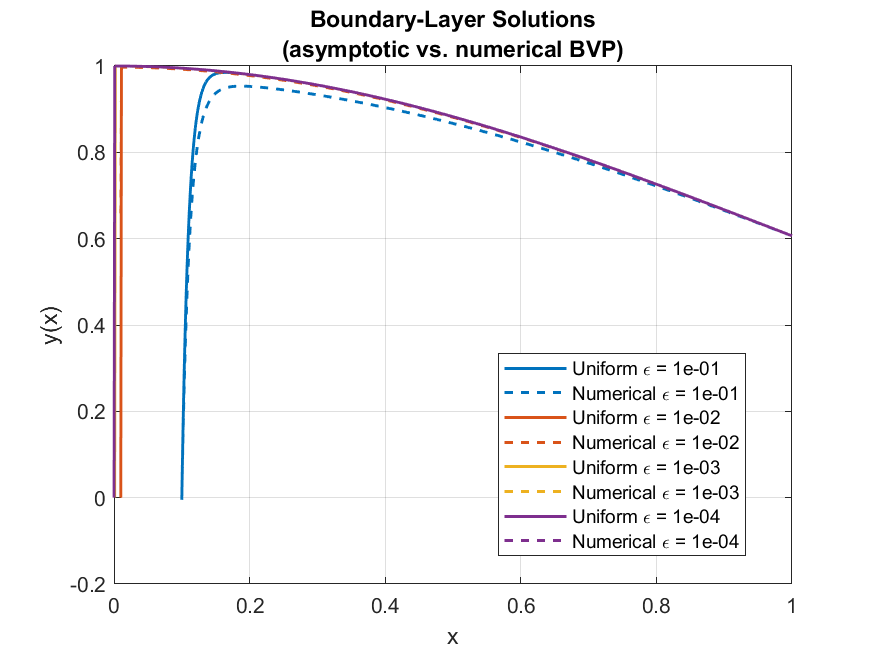
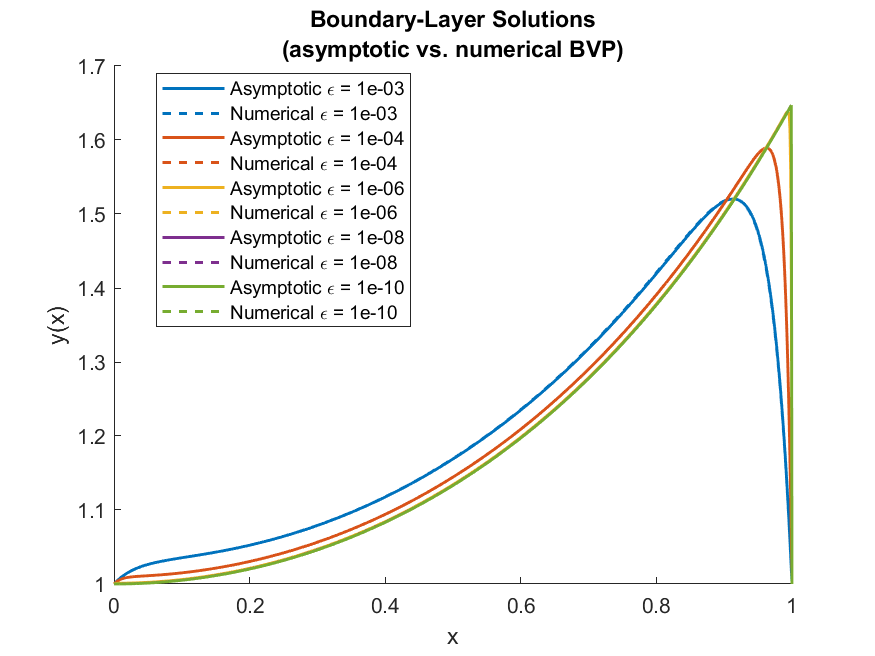
Code optimization

diff --git a/uniform_vs_numerical_bvp.m b/uniform_vs_numerical_bvp.m
@@ -1,113 +1,117 @@
-function compare_uniform_vs_numerical
-%COMPARE_UNIFORM_VS_NUMERICAL  Asymptotic solution vs.
-%                              direct numerical BVP solution.
+function compare_asymptotic_vs_numerical
+%COMPARE_ASYMPTOTIC_VS_NUMERICAL_  Convergence test for a matched solution.
 %
-%   PROBLEM
+%   PURPOSE
 %   -------
-%   We study the singularly-perturbed boundary-layer ODE
+%   Validate a **matched asymptotic approximation** y_uniform(x; ε) obtained
+%   via boundary‐layer theory by showing that its L₁-distance to the direct
+%   numerical solution of the BVP decays algebraically as ε → 0.
 %
-%       ε y''(x) + (1/x) y'(x) + y(x) = 0,  x ∈ [ε, 1],
-%       y(ε) = 0, y(1) = exp(−1/2).
-%
-%   A composite uniform approximation y_uniform(x) is obtained via
-%   Asymptotic expansions (outer + inner layer, then matched).
-%   This script compares that analytic approximation with the numerical
-%   solution produced by `bvp4c`.
-%
-%   WORKFLOW
-%   --------
-%   • For every value in EPSILON_VEC
-%       1. Evaluate the composite uniform approximation.
-%       2. Solve the BVP numerically with first-order reduction + `bvp4c`.
-%       3. Compute the L₁-error on [ε, 1].
-%       4. Plot both curves on the same axes.
-%   • Fit the convergence rate log(L₁) ≈ C ε^p and show it on a log–log
-%     plot.
-%   • Save both figures (PNG) to the folder `./fig/`.
-%
-%   FILES WRITTEN
+%   MODEL PROBLEM
 %   -------------
-%   fig/solutions_vs_numerical.png   – uniform vs. numerical curves
-%   fig/L1_error_loglog.png          – L₁-error convergence
+%       ε y'''(x) − y'(x) + x y(x) = 0,  x ∈ [0, 1],
+%       y(0) = 1, y'(0) = 1, y(1) = 1.
+%
+%   The script:
+%     1) Evaluates the matched asymptotic formula y_uniform(x; ε).
+%     2) Solves the full BVP with `bvp4c` for several ε values.
+%     3) Computes   L₁(ε) = ∫₀¹ |y_uniform − y_num| dx.
+%     4) Plots both curves for visual comparison.
+%     5) Fits   log L₁ ≈ p log ε + C   to expose the observed convergence
+%        rate p.
+%
+%   EXPECTED RESULT
+%   ---------------
+%   On a log–log plot, L₁(ε) should decrease with slope p < 0,
+%   confirming that the asymptotic matching captures the correct interior
+%   and boundary‐layer behaviour as ε becomes small.
 %
 %   AUTHOR  : Sagi Senderovich
 %   VERSION : 22-Jun-2025
 % -------------------------------------------------------------------------
 
-clc;  close all;
+clc; close all;
 
-%% --------------------------- user parameters --------------------------
-epsilon_vec = [1e-1, 1e-2, 1e-3, 1e-4];
-x_common    = linspace(min(epsilon_vec), 1, 1000);
-save_folder = fullfile(pwd,'fig');           % ./fig   (auto-created)
-if ~exist(save_folder,"dir"), mkdir(save_folder); end
+%% --------------------------- user parameters ---------------------------
+EPSILON_VEC = [1e-3, 1e-4, 1e-6, 1e-8, 1e-10];
+X_GRID      = linspace(0, 1, 1000);        % common evaluation grid
 
-n_cases   = numel(epsilon_vec);
+% output folder
+fig_dir = fullfile(pwd,'fig');
+if ~exist(fig_dir,'dir'), mkdir(fig_dir); end
+% ------------------------------------------------------------------------
+
+n_cases   = numel(EPSILON_VEC);
 color_map = lines(n_cases);
-L1_error  = zeros(n_cases,1);
+L1_error  = zeros(n_cases, 1);
 
-% Figure 1
-fig1 = figure('Name','Asymptotic vs. Numerical Solutions');
+%% ----------------------- figure 1: solutions ----------------------------
+fig1 = figure('Name', 'Asymptotic vs. Numerical');
+ylim([1 1.7])
 hold on;
 
 for k = 1:n_cases
-    epsilon = epsilon_vec(k);
+    eps = EPSILON_VEC(k);
 
-    % matching approximation
-    asymp_fun = @(x) exp(-x.^2/2) - exp(-(x - epsilon)./epsilon.^2);
-    x_asymp   = linspace(epsilon,1,1000);
-    y_asymp   = asymp_fun(x_asymp);
+    % asymptotic (asymptotic) approximation  y_uniform(x; ε)
+    uniform_fun = @(x) ...
+        ((sqrt(eps) + 1) .* exp(x.^2 / 2) ...
+        - sqrt(eps) .* exp(-x ./ sqrt(eps)) ...
+        + (1 - sqrt(exp(1)) .* (sqrt(eps) + 1)) ...
+          .* exp((x - 1) ./ sqrt(eps)));
 
-    % numerical BVP
-    ode = @(x,Y)[ Y(2) ;
-                 -(1./(x*epsilon)).*Y(2) - (1/epsilon).*Y(1) ];
-    bc  = @(Ya,Yb)[ Ya(1) ;
-                    Yb(1)-exp(-1/2) ];
-    guess = @(x)[ ((x-epsilon)/(1-epsilon))*exp(-1/2) ;
-                  exp(-1/2)/(1-epsilon) ];
-    sol   = bvp4c(ode,bc,bvpinit(linspace(epsilon,1,400),guess));
+    y_uniform = uniform_fun(X_GRID);
 
-    % safe evaluation on [epsilon,1]
-    valid_idx      = x_common >= epsilon;
-    y_num_full     = NaN(1,numel(x_common));
-    y_temp         = deval(sol,x_common(valid_idx));
-    y_num_full(valid_idx) = y_temp(1,:);
-    y_num = y_num_full;
+    % numerical BVP  (first-order system)
+    %   Y(1) = y ,  Y(2) = y' ,  Y(3) = y''
+    ode = @(x, Y)[ Y(2) ; ...
+                   Y(3) ; ...
+                   (Y(2) - x .* Y(1)) / eps ];
 
-    % L1 error
-    L1_error(k) = trapz(x_common(valid_idx), ...
-                        abs(asymp_fun(x_common(valid_idx))-y_num(valid_idx)));
+    bc  = @(Ya, Yb)[ Ya(1) - 1 ;   % y(0)  = 1
+                     Ya(2) - 1 ;   % y'(0) = 1
+                     Yb(1) - 1 ];  % y(1)  = 1
+
+    init_guess = @(x)[ 1 ; 1 ; 0 ];                 % coarse initial guess
+    sol        = bvp4c(ode, bc, bvpinit(X_GRID, init_guess));
+    y_num      = deval(sol, X_GRID);
+
+    % L₁-error
+    L1_error(k) = trapz(X_GRID, abs(y_uniform - y_num(1 , :)));
 
     % plotting
-    plot(x_asymp,y_asymp,'-','LineWidth',1.4,'Color',color_map(k,:), ...
-        'DisplayName',sprintf('Uniform \\epsilon = %.0e',epsilon));
-    plot(x_common(valid_idx),y_num(valid_idx),'--','LineWidth',1.4, ...
+    plot(X_GRID, y_uniform, '-',  'LineWidth',1.4, ...
         'Color',color_map(k,:), ...
-        'DisplayName',sprintf('Numerical \\epsilon = %.0e',epsilon));
+        'DisplayName',sprintf('Asymptotic \\epsilon = %.0e', eps));
+
+    plot(X_GRID, y_num(1 , :), '--', 'LineWidth',1.4, ...
+        'Color',color_map(k,:), ...
+        'DisplayName',sprintf('Numerical \\epsilon = %.0e', eps));
 end
 
 xlabel('x'); ylabel('y(x)');
-title({'Boundary-Layer Solutions';'(asymptotic vs. numerical BVP)'});
-legend('Location','best'); grid on; box on;
+title({'Boundary-Layer Solutions'; '(asymptotic vs. numerical BVP)'});
+legend('Location','best'); grid off; box off;
 
-% save figure 1
-saveas(fig1, fullfile(save_folder,'solutions_vs_numerical.png'));
+saveas(fig1, fullfile(fig_dir,'solutions_vs_numerical.png'));
 
-% Figure 2
-fig2 = figure('Name','L1 error (log-log)');
-loglog(epsilon_vec,L1_error,'o-','LineWidth',1.5); grid on;
-xlabel('\epsilon'); ylabel('L_1 error');
-title('Convergence of Asymptotic Solution Towards Numerical BVP');
 
-% fit slope
-coeff = polyfit(log(epsilon_vec(:)), log(L1_error(:)),1);
-rate  = coeff(1); intercept = coeff(2);
-text('Units','normalized','Position',[0.72 0.25], ...
-     'String',sprintf('L_1 \\approx %.2f \\epsilon^{%.2f}',exp(intercept),rate), ...
-     'BackgroundColor','w','EdgeColor','k');
+%% ------------------- figure 2: L1 error convergence ---------------------
+fig2 = figure('Name','L1 error (log‒log)');
+loglog(EPSILON_VEC, L1_error, 'o-', 'LineWidth',1.5);
+xlim([0 0.001]);
+grid off; box off; xlabel('\epsilon'); ylabel('L_1 error');
+title('Convergence of Asymptotic Solution');
 
-fprintf('Observed fit:  log(L1) = %.2f·log(epsilon) + %.2f\n',rate,intercept);
+% fit slope  log(L1) = p log ε + C
+coeff = polyfit(log(EPSILON_VEC(:)), log(L1_error(:)), 1);
+rate  = coeff(1);  intercept = coeff(2);
 
-% save figure 2
-saveas(fig2, fullfile(save_folder,'L1_error_loglog.png'));
+text('Units','normalized', 'Position',[0.55 0.25], ...
+     'String',sprintf('L_1 \\approx %.2f \\epsilon^{%.2f}', ...
+                      exp(intercept), rate), ...
+     'BackgroundColor','w', 'EdgeColor','k');
+
+fprintf('Observed fit:  log(L1) = %.2f·log(ε) + %.2f\n', rate, intercept);
+saveas(fig2, fullfile(fig_dir,'L1_error_loglog.png'));
 end

diff --git a/README.md b/README.md
@@ -1,3 +1,12 @@
+# Boundary-Layer — Matched Approximation vs. Numerical BVP
+
+<p align="center">
+  <img src="fig/solutions_vs_numerical.png" width="48%">
+  <img src="fig/L1_error_loglog.png" width="48%">
+</p>
+
+---
+
 # Boundary-Layer — Matching Approximation vs. Numerical Solution
 
 This mini-repo demonstrates how a **matched-asymptotic (composite) uniform
@@ -15,11 +24,11 @@ solution of the underlying singularly-perturbed ODE.
 
 We consider  
 
-ε y''(x) + (1/x) y'(x) + y(x) = 0      on  [ε, 1]
-y(ε) = 0, y(1) = exp(-1/2)
+ε y‴(x) − y′(x) + x y(x) = 0  x ∈ [0, 1]
+y(0) = 1, y′(0) = 1, y(1) = 1
 
 where 0<ε<<1 creates a thin boundary layer near
-x=ε.
+x=1.
 
 * **Uniform approximation**  
   Built with matching:  
